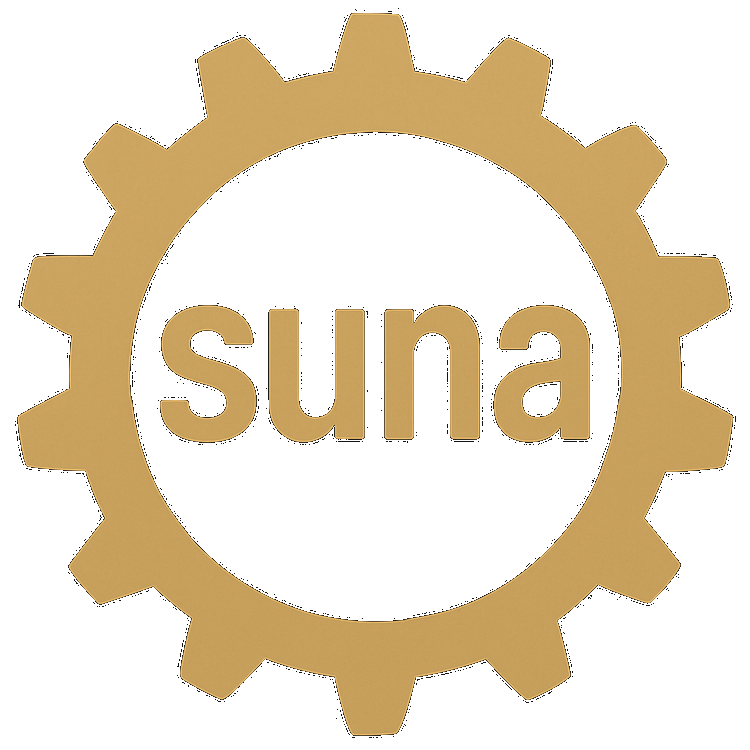
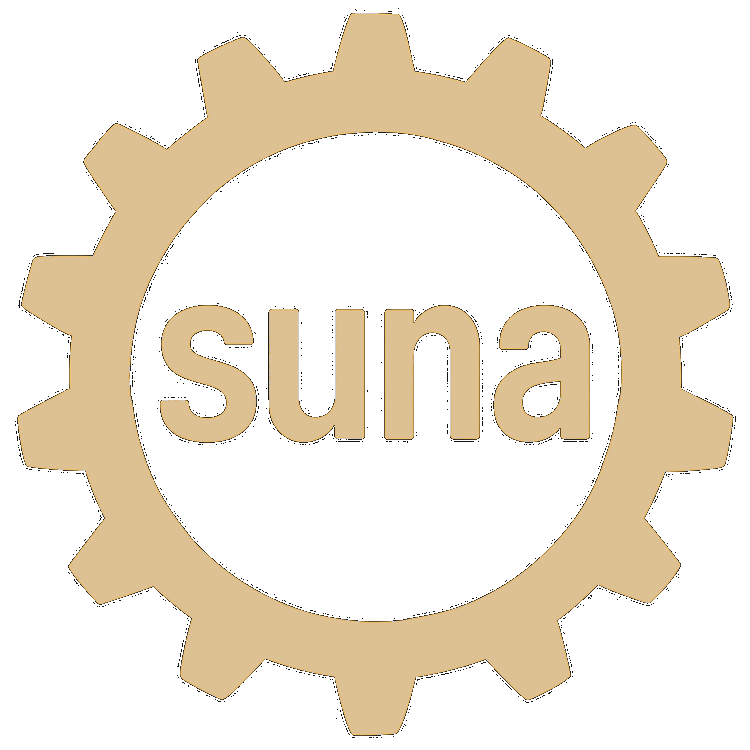
v1.1.3 color change css change

diff --git a/css/rust_info.css b/css/rust_info.css
@@ -1,14 +1,16 @@
  @charset "UTF-8";
 
- body {
-    background-color: rgb(255, 247, 233);
+body {
+  background-color: #fff;
 }
+
+
 
 .top h1 {
     padding-top: 15px;
     font-size: 475%;
     text-align: center;
-    color: white;
+    color: #cacaca;
 }
 
 .top h2 {
@@ -24,7 +26,7 @@ h1 {
     text-align: center;
     font-weight: normal;
     font-size: 50px;
-    color: #f66200;
+    color: #ffb888;
 }
 
 /* 用語解説のh1 */
@@ -90,27 +92,38 @@ pre {
 
 /* 整列コンテナ */
 .container {
-    display: flex;
-    flex-wrap: wrap;
-    width: 98%;
-    margin-bottom: 50px;
+  display: flex;
+  flex-wrap: wrap;
+  width: 98%;
+  margin-bottom: 50px;
+  justify-content: space-between; 
 }
 
 .box {
     display: flex;
     flex-direction: column;
     justify-content: center;
-    flex-grow: 1;
-    width: 15%;
+    width: 22%;
     height: 350px;
     margin: 1% 0;
-    border-right: solid 2px #000;
+    background: rgba(255, 255, 255, 0.15);
+    backdrop-filter: blur(10px);
+    -webkit-backdrop-filter: blur(10px);
+    border-radius: 12px;
+    box-shadow: 0 4px 16px rgba(0, 0, 0, 0.08);
+    padding: 16px;
+    transition: transform 0.3s ease;
+}
+
+.box:hover {
+  transform: scale(1.05);
+  box-shadow: 0 12px 24px rgba(0, 0, 0, 0.1);
 }
 
 .box h2 {
     margin-bottom: 20px;
     text-align: center;
-    color: orange;
+    color: rgb(255, 181, 43);
     font-size: 32px;
 }
 
@@ -120,7 +133,7 @@ h2.mean {
 
 .box h3 {
     padding: 0 10px;
-    color: #000;
+    color: 	#666666;
     font-size: 20px;
     text-align: center;
     font-weight: normal;
@@ -130,7 +143,7 @@ h2.mean {
     margin-top: 15px;
     padding: 15px;
     border-top: 1px dashed #2d2d2d;
-    color: #000;
+    color: 	#666666;
     font-size: 17px;
     text-align: center;
 }
@@ -191,6 +204,7 @@ h2.mean {
         flex-grow: 0;
         width: 95%;
         gap: 0%;
+        justify-content: center;
     }
 
     .box {
@@ -198,8 +212,6 @@ h2.mean {
         min-width: 0px;
         height: 200px;
         margin: 1% 0;
-        border-right: none;
-        border-top: solid 1.5px #ccc;
     }
 
     .box h2 {

diff --git a/css/style.css b/css/style.css
@@ -32,7 +32,10 @@ html {
   width: 100%;
   left: 0;
   height: 20%;
-  background-color: #2d2d2d;
+  background: rgba(255, 255, 255, 0.1);
+  backdrop-filter: blur(10px);
+  -webkit-backdrop-filter: blur(10px);
+  box-shadow: 0 4px 16px rgba(0, 0, 0, 0.08);
   justify-content: center;
   align-items: center;
 }
@@ -45,7 +48,7 @@ html {
 
 .title a {
     font-size: 40px;
-    color: #f66200;
+    color: #ffb888;
     text-decoration: none;
 }
 
@@ -53,28 +56,33 @@ html {
   margin: 30px auto;
   width: 65%;
   height: auto;
-  border: solid 2px #212d5d;
+  background: rgba(255, 255, 255, 0.3);
+  backdrop-filter: blur(10px);
+  -webkit-backdrop-filter: blur(10px);
+  box-shadow: 0 4px 16px rgba(0, 0, 0, 0.08);
   border-radius: 45px;
   text-align: center;
 
-}
-
-.section-box p {
-  display: block;
-  color: #f66200;
-  font-size: 40px;
 }
 
 .section-box a {
   display: block;
   padding: 15px;
   font-size: 30px;
-  color: #101010;
+  color: #999999;
   text-decoration: none;
+  transition: transform 0.3s ease;
 }
 
 .section-box a:hover {
-  color: 	 #4D4D4D;
+  transform: scale(1.1);
+}
+
+.section-box .orenge-txt{
+  display: block;
+  padding-top: 30px;
+  color: #ffb888;
+  font-size: 40px;
 }
 
 section {
@@ -147,8 +155,12 @@ header {
   height: 12%;
   bottom: 0;
   left: 0;
-  background-color: #2d2d2d;
-  border-top: solid 5px gray;
+  border-top-left-radius: 45px;
+  border-top-right-radius: 45px;
+  background: rgba(255, 255, 255, 0.15);
+  backdrop-filter: blur(9px);
+  -webkit-backdrop-filter: blur(10px);
+  box-shadow: 0 4px 16px rgba(0, 0, 0, 0.08);
   z-index: 3;
   display: flex;
   justify-content: center;

diff --git a/index.html b/index.html
@@ -55,7 +55,7 @@
 <!-- セクションメニュー -->
             <div class="section-box">
 
-            <p>入門編解説</p>
+            <a href="#1" class="orenge-txt">入門編解説</a>
                 <a href="rust_info/code.html">～コード解説～</a>
                 <a href="rust_info/term.html">～用語解説～</a>
             
@@ -67,7 +67,8 @@
 
 <!-- 内容 -->
 <!-- Hello world -->
-        
+
+<section id="1">
     <div class="title"><a href="#goTop">～Hello world～</a></div>
         <div class="code-box">
         <pre><code class="language-rust">
@@ -108,8 +109,8 @@ fn main() {
                     <br>マクロ: 便利な省略型　コンパイル時に展開される
                 </span>
             </p>
-    </div>
-</section> -->
+    </div> -->
+</section>
 
 <!-- 数字あてゲーム作成 -->
 

diff --git a/css/rust.css b/css/rust.css
@@ -1,7 +1,7 @@
 @charset "UTF-8";
 
 body {
-  background-color: rgb(255, 247, 233);
+    background-color: #fff;
 }
 
 .content {
@@ -13,6 +13,14 @@ body {
     align-items: center;
 }
 
+
+.section-box .orenge-txt a{
+  display: block;
+  padding-top: 30px;
+  color: #ffb888;
+  font-size: 40px;
+}
+
 .all {
     width: 60%;
     height: auto;
@@ -22,7 +30,7 @@ body {
 
 .discord {
     font-size: 37px!important;
-    color: #5865f2!important;
+    color: #8f99ff!important;
 }
 
 .main_box {
@@ -35,7 +43,8 @@ body {
     padding-top: 15px;
     font-size: 475%;
     text-align: center;
-    color: white;
+    font-weight: normal;
+    color: #cacaca;
 }
 
 .top h2 {
@@ -128,5 +137,9 @@ pre {
     .top h2 {
         padding-top: 23px;
         font-size: 100%;
+    }
+
+    .discord {
+        font-size: 22px!important;
     }
 }

diff --git a/css/w_hac.css b/css/w_hac.css
@@ -8,7 +8,7 @@
     padding-top: 30px;
     font-size: 425%;
     text-align: center;
-    color: white;
+    color: #d3d3d3;
 }
 
 .top h2 {
